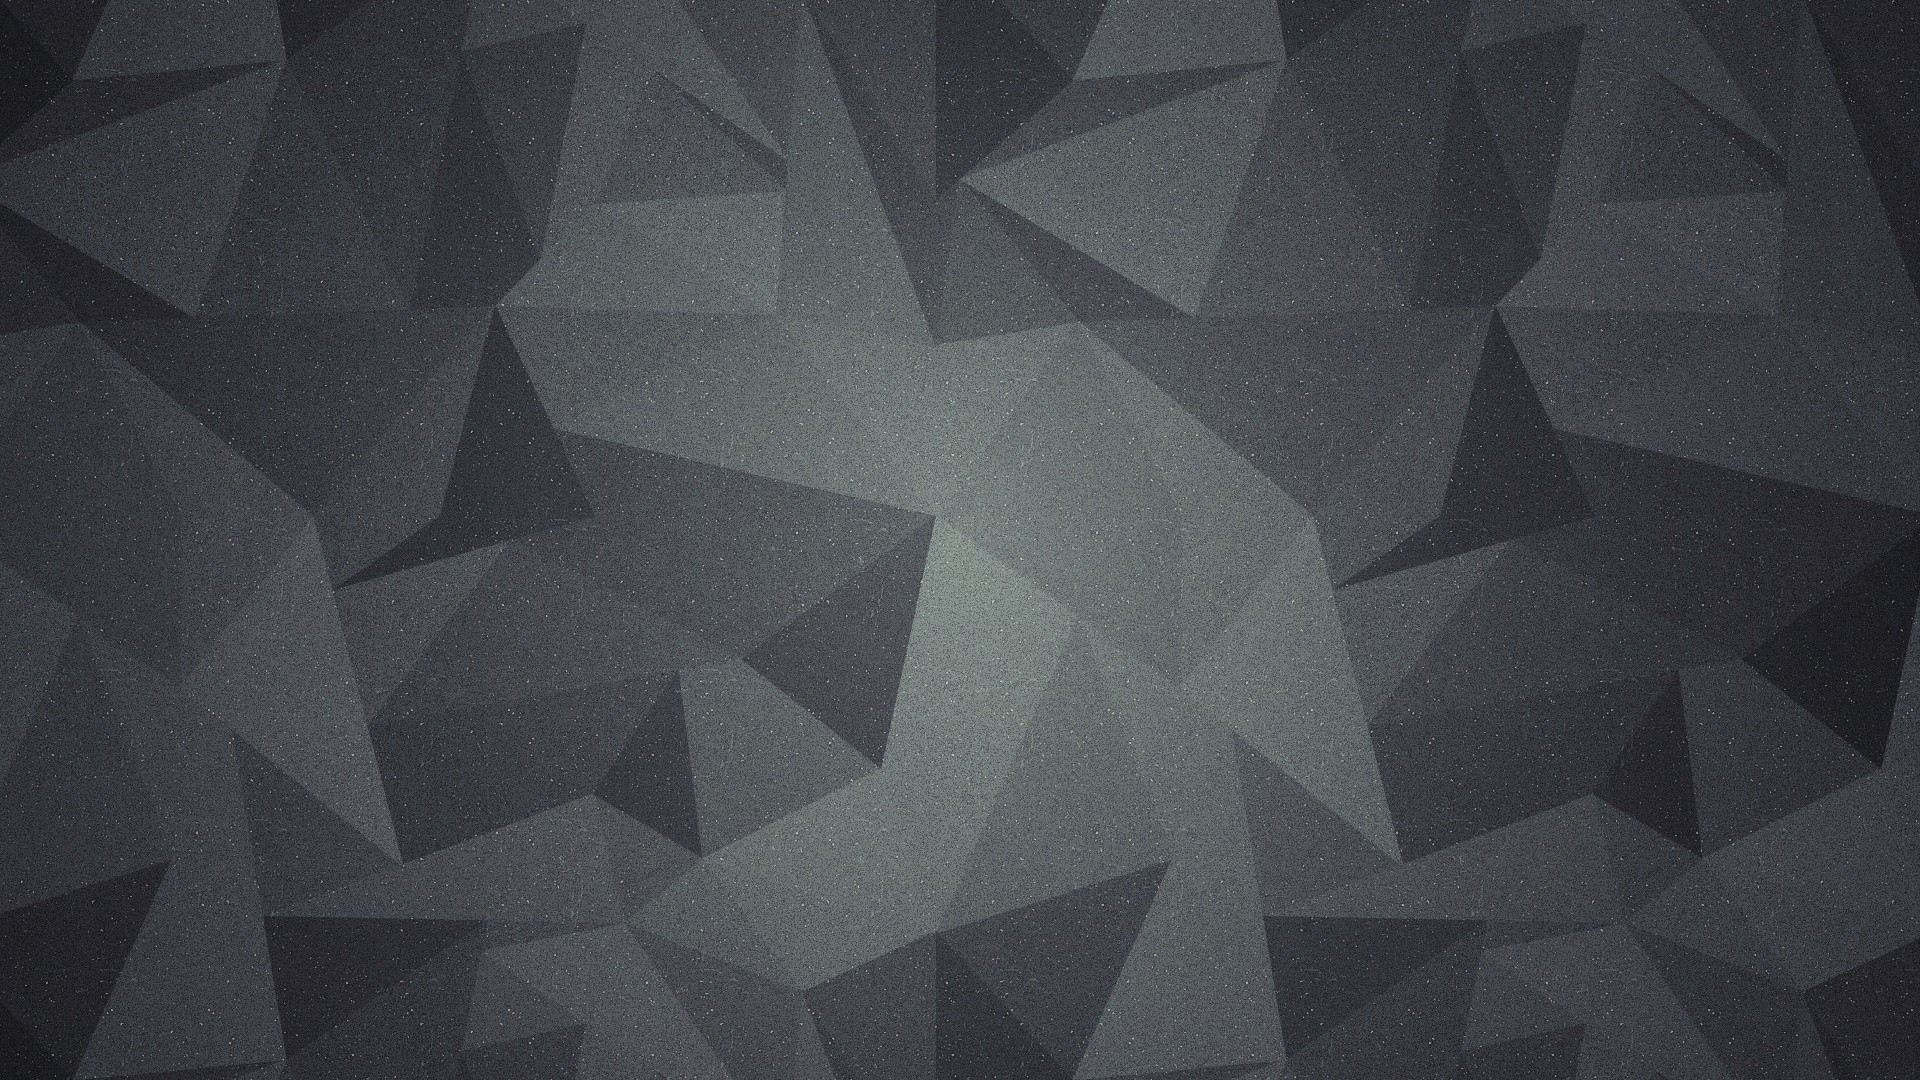
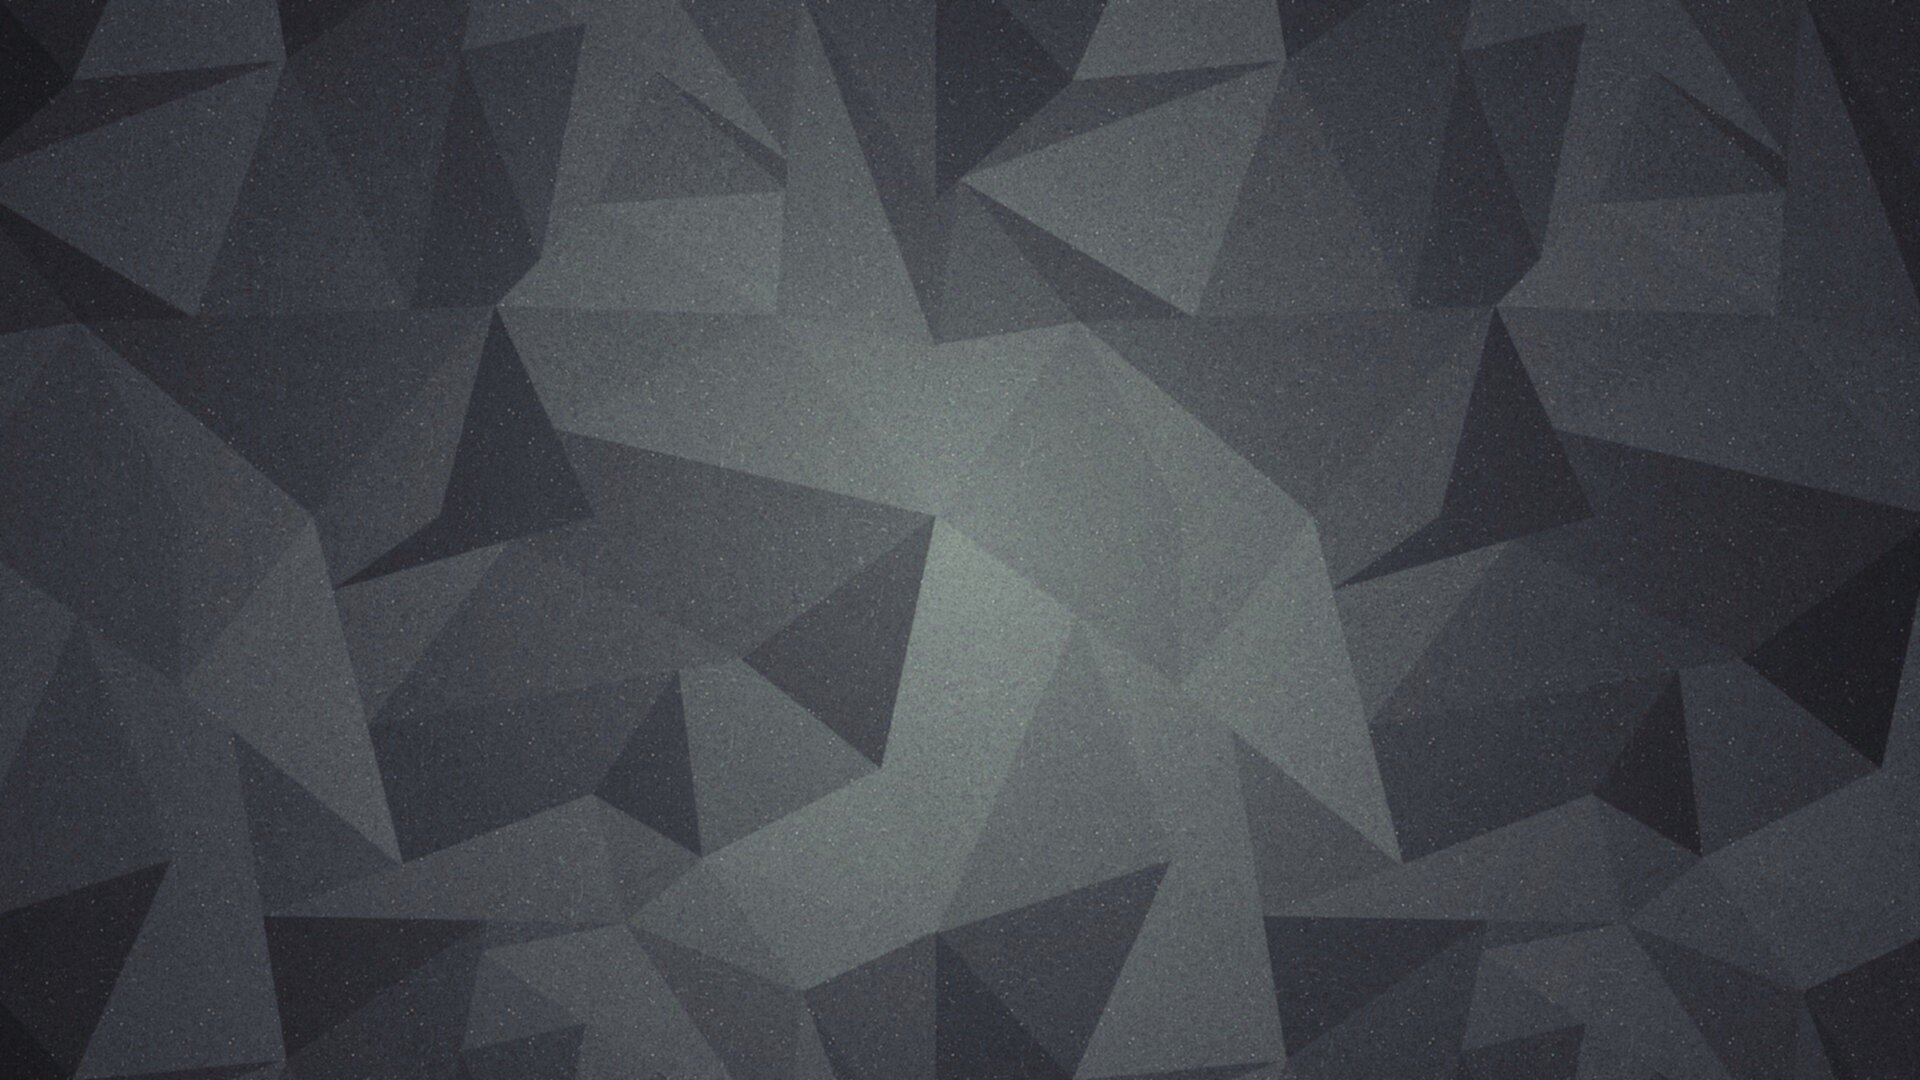
fix: change navbar contrast and bg image size

diff --git a/css/nav.css b/css/nav.css
@@ -1,6 +1,6 @@
 /* Navigation styling */
 nav a {
-  color: black;
+  color: rgba(245, 245, 245, 0.856);
   font-weight: bold;
   text-decoration: none;
 }
